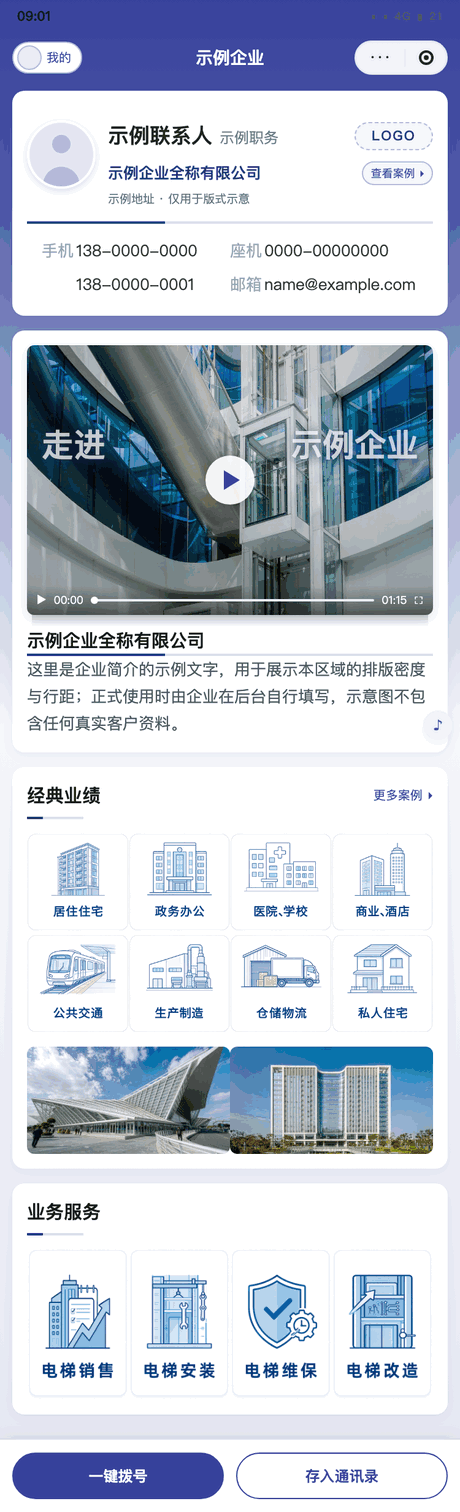
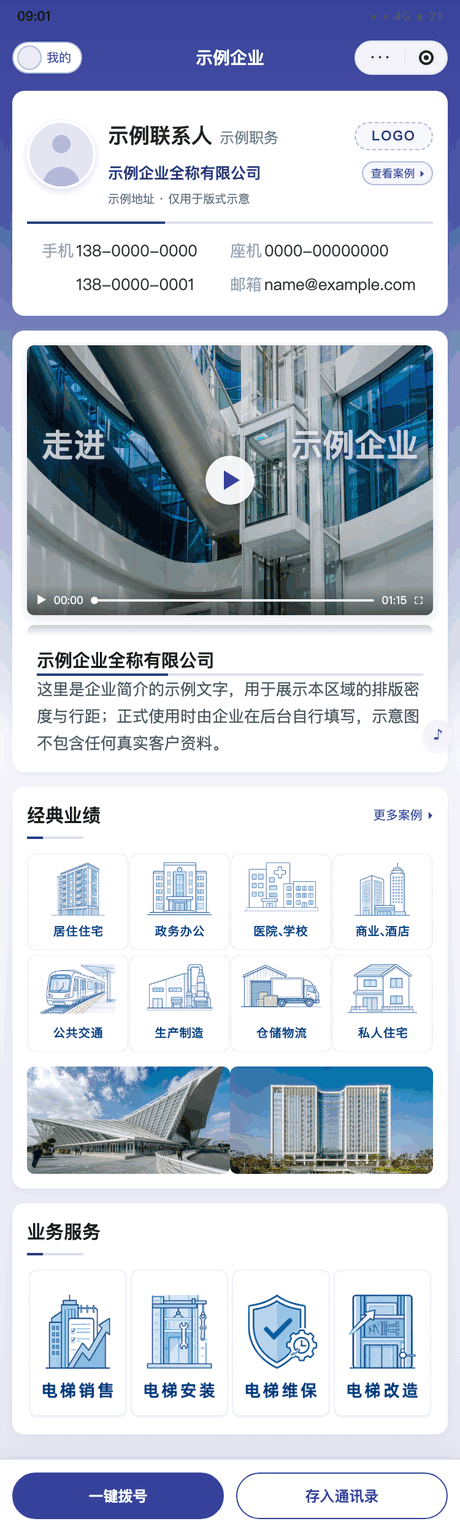
fix(miniprogram): 阴影倒影与视频等宽、上缘圆角并拉开间距，文字区收窄下移
按用户对预览图的视觉反馈调整默认款五处：

· 阴影带左右 8rpx -> 0，与视频等宽；
· 上缘两角 12rpx 圆角，像视频窗口的倒影；
· top 100% -> calc(100% + 16rpx)，与视频拉开空隙；
· 公司名称与简介整块 margin-top 52rpx，离倒影更远；
· 同一块的左右 margin 16rpx，落在倒影宽度以内。

倒影仍是 ::after，不占布局高度、不挡跳转点击；这五条都只属于
default，以仓库 HEAD 的图为基线逐像素比对，其余三款仍逐字节相同。

守门扩到 6 例；反向验证：倒影退回旧形态（窄/紧贴/无圆角）红 1、
删文字区规则红 1、文字区误伤 teal 红 2。T38 同步改写。

diff --git a/miniprogram/tests/default_contact_video.spec.ts b/miniprogram/tests/default_contact_video.spec.ts
@@ -59,14 +59,17 @@ describe('默认标准风格：联系方式字号与视频底部分割条', () =
     )
   })
 
-  it('阴影分割条：贴在视频下缘外侧，不占高度、不挡跳转点击', () => {
+  it('阴影倒影：与视频同宽、上缘圆角，与视频拉开空隙，不挡跳转点击', () => {
     const shade = ruleBody(WXSS, '.wc-style-default .mp-profile .company-video .cv-wrap::after')
     expect(decl(shade, 'content')).toBe('""')
     expect(decl(shade, 'position')).toBe('absolute')
-    expect(decl(shade, 'top')).toBe('100%')
+    expect(decl(shade, 'left')).toBe('0')
+    expect(decl(shade, 'right')).toBe('0')
+    expect(decl(shade, 'top'), '与视频之间要留空隙，不能紧贴下缘').toBe('calc(100% + 16rpx)')
     expect(decl(shade, 'height')).toBe('18rpx')
-    expect(decl(shade, 'left')).toBe('8rpx')
-    expect(decl(shade, 'right')).toBe('8rpx')
+    expect(decl(shade, 'border-radius'), '左上角 / 右上角圆角，像视频窗口的倒影').toBe(
+      '12rpx 12rpx 0 0'
+    )
     expect(decl(shade, 'pointer-events')).toBe('none')
     expect(shade, '渐变阴影条而不是一条实色线').toContain('linear-gradient')
     expect(shade, '阴影是中性灰，不随品牌主色变蓝').toContain('rgba(30, 42, 53, 0.22)')
@@ -75,10 +78,21 @@ describe('默认标准风格：联系方式字号与视频底部分割条', () =
     expect(decl(ruleBody(WXSS, '.company-video .cv-wrap'), 'position')).toBe('relative')
   })
 
+  it('公司名称与简介落在倒影内侧：下移让出间距，左右各收一点', () => {
+    const text = ruleBody(WXSS, '.wc-style-default .mp-profile .pf-text')
+    expect(text, '缺了文字区的收窄规则').toBeTruthy()
+    // 倒影底边 = 视频底 + 16rpx 空隙 + 18rpx 条高 = 34rpx；再留 18rpx 给名称
+    expect(decl(text, 'margin')).toBe('52rpx 16rpx 0')
+  })
+
   it('另外三款没有这条阴影条，也没有联系方式字号覆盖', () => {
     expect(WXSS).not.toMatch(/\.wc-style-(?:ink|warm|teal)[\s\S]{0,100}\.cv-wrap::after\s*\{/)
     // 更不能写成全局选择器——那样四款都会出现阴影条，只是没人说「其他风格不变」
     expect(WXSS).not.toMatch(/(?:^|\n)[ \t]*\.company-video \.cv-wrap::after\s*\{/)
+    // 文字区的下移收窄也只属于 default
+    expect(WXSS).not.toMatch(
+      /\.wc-style-(?:ink|warm|teal)[\s\S]{0,120}\.pf-text\s*\{[^}]*margin:\s*52rpx/
+    )
   })
 
   it('预览出图脚本同构：有同名容器，风格规则原文在通用 CSS 之后注入', () => {

diff --git a/docs/real-device-acceptance.md b/docs/real-device-acceptance.md
@@ -314,7 +314,7 @@
 
 - [ ] T37 **间距二次按风格分流**（2026-11-19 追加反馈）：同一租户、同一台真机，四个风格各截一张顶部名片卡，与上一版并排比对——**标准均衡**：姓名上方留白再高约 4px（从 8px 变 12px = 24rpx），手机号再右移约 4px（合计 12px / 24rpx），而**同一行的座机 / 邮箱左缘逐像素不动**；**紧凑信息**：联系表是单列四行，「座机」「邮箱」两行的文字左缘要与上面的「手机号」两行完全对齐（都缩进 16rpx），不能只有手机号缩进、下面两行留在原位；**暖色 / 青色**：姓名上方留白、手机号左缘、座机邮箱左缘全部与上一版逐像素一致——本轮改动曾分别出图做过字节比对，这两款的 44 组合预览图逐字节未变，真机上也应是同样结论。后台「名片页面样式」的 LOGO 小示意图与主题预览图按新值出图，客户照着调档位不能看到与真机不同的版式
 
-- [ ] T38 **默认标准风格联系方式字号与视频阴影分割条**（2026-11-19 客户反馈）：标准均衡首页顶部名片卡，「手机」「座机」「邮箱」的标签与号码文字都比上一版略大（24→26rpx，约 1px），三处都变，长邮箱仍不折行、不把号码挤出卡片；浅墨 / 暖色 / 青色的联系方式字号保持原样。同一风格往下看「公司简介」：视频封面下缘与粗体公司名称之间多了一条**贯穿视频大部分宽度的浅灰色渐隐阴影带**（中性灰，不随品牌主色变蓝），它是视频的视觉分隔，**不占布局高度**——公司名称与简介的位置和上一版逐像素一致，不能被往下推；视频来源选「跳转打开」时，这条带子也不该挡住点封面跳视频号。示意图（主题预览 44 组合）里同步出现同一条阴影与同样字号；其余三款风格的预览图逐像素未变，真机上也应如此
+- [ ] T38 **默认标准风格联系方式字号与视频阴影分割条**（2026-11-19 客户反馈）：标准均衡首页顶部名片卡，「手机」「座机」「邮箱」的标签与号码文字都比上一版略大（24→26rpx，约 1px），三处都变，长邮箱仍不折行、不把号码挤出卡片；浅墨 / 暖色 / 青色的联系方式字号保持原样。同一风格往下看「公司简介」：视频封面与粗体公司名称之间多了一条**与视频等宽、上缘两角圆角的浅灰渐隐阴影带**（中性灰，不随品牌主色变蓝），它和视频之间留出一段明显空隙，直观看像视频窗口的倒影；阴影带本身不占布局高度，但公司名称与简介整块**往下留出更多间距、并左右各收窄一点**，看起来落在阴影带宽度以内、离它左右边界有一点空隙；视频来源选「跳转打开」时，这条带子不该挡住点封面跳视频号。示意图（主题预览 44 组合）里同步出现同一条阴影与同样字号；其余三款风格的预览图逐像素未变，真机上也应如此
 
 ### C. 品牌配色预设色板（第二十五轮追加）
 
